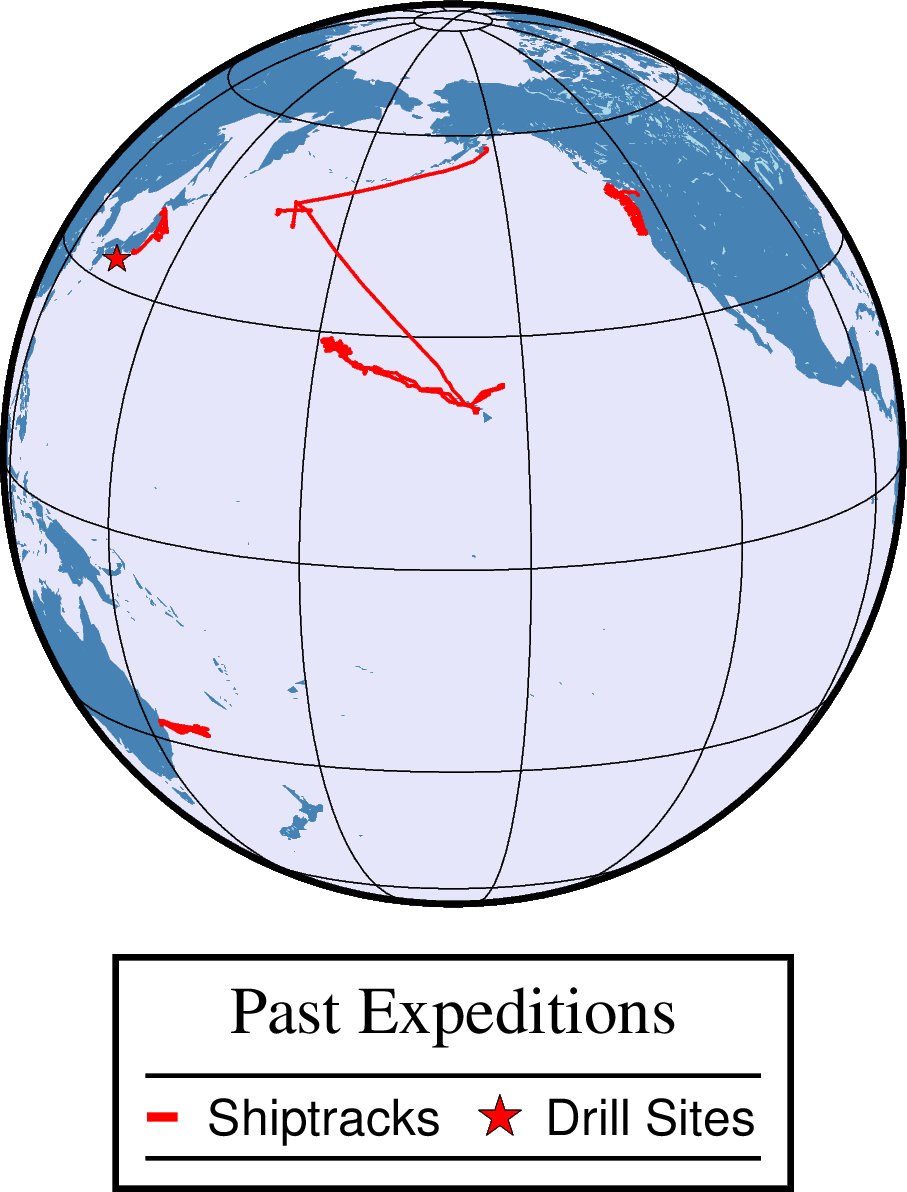
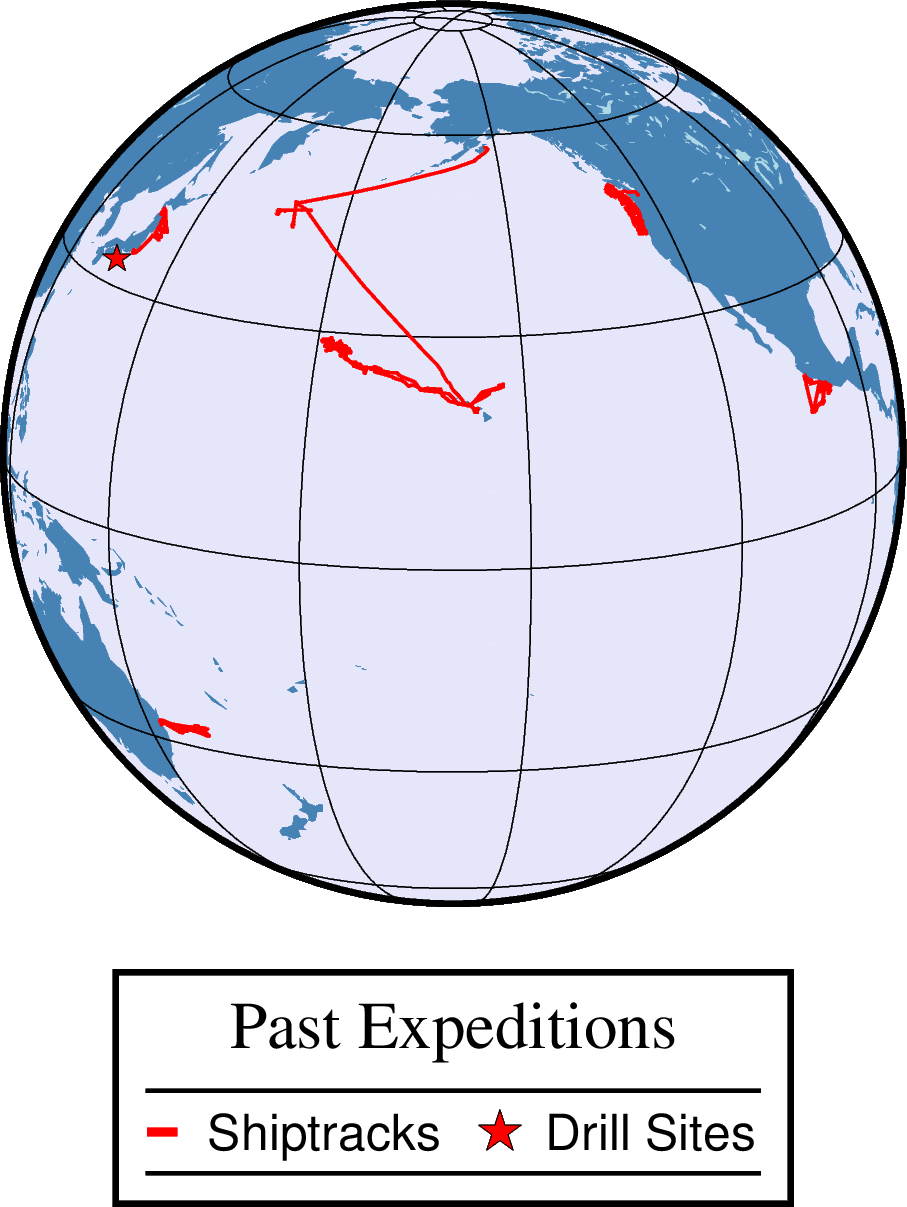
update

diff --git a/research.md b/research.md
@@ -13,9 +13,9 @@ I use marine geophysics to study how the Earth's tectonic plates form, bend, bre
 
 Starting at the Big Island of Hawaii and extending to the Aleutian Trench, the Hawaiian-Emperor Seamount Chain is a classic example of a hotspot seamount chain. Check out our [blog](https://hawaiiemperor.blogspot.com "blog") for information on a recent seismic cruise series using R/V _Marcus G. Langseth_ and click below for some initial publications.
 
-* Watts, A. B., Grevemeyer, I., Shillington, D. J., Dunn, R., **Boston, B.**, Peña, L. G., 2021. Seismic structure, Gravity anomalies and Flexure along the Emperor Seamount chain. [link](http://dx.doi.org/10.1029/2020JB021109 "link")
-
-* Watts, A. B., Tozer, B., Harper, H., **Boston, B.**, Shillington, D.J., Dunn, R., 2020. Evaluation of shipboard and satellite-derived bathymetry and gravity data over seamounts in the northwest Pacific Ocean. [link](http://dx.doi.org/10.1029/2020JB020396 "link")
+* Xu, C., et al., (2022). A seismic tomography, gravity, and flexure study of the crust and upper mantle structure of the Emperor Seamounts at Jimmu guyot. [link](https://doi.org/10.1029/2021JB023241 "link")
+* Watts, A. B., Grevemeyer, I., Shillington, D. J., Dunn, R., **Boston, B.**, Peña, L. G., (2021). Seismic structure, Gravity anomalies and Flexure along the Emperor Seamount chain. [link](http://dx.doi.org/10.1029/2020JB021109 "link")
+* Watts, A. B., Tozer, B., Harper, H., **Boston, B.**, Shillington, D.J., Dunn, R., (2020). Evaluation of shipboard and satellite-derived bathymetry and gravity data over seamounts in the northwest Pacific Ocean. [link](http://dx.doi.org/10.1029/2020JB020396 "link")
 
 A previous sonar cruise on the Hawaiian Ridge up to just NW of Kure and Midway Atolls mapped 19 seamounts and discovered deep guyots, likely old preexisting Cretaceous seamounts, intertwined with ones from the Hawaiian Chain.
 
@@ -28,6 +28,12 @@ These regions where plates collide produce some of the largest earthquakes, crea
 
 ##### Cascadia
 Located in the backyard of the Pacific Northwest, the Cascadia subduction zone is one of the greatest geologic hazards for the US, with earthquakes reaching up to Mw 9.0. During the Cascadia Seismic Imaging Experiement 2021 (CASIE21), we imaged along the whole margin to better understand the earthquake and tsunami hazards throughout this region. Check out our our [website](https://casie21.weebly.com "website") or [blog](https://news.climate.columbia.edu/features/illuminating-the-cascadia-subduction-zone/ "blog") to learn more about how and why we collected the data, or see what others are saying about the [research cruise](https://www.sciencemag.org/news/2021/06/megaquake-will-someday-strike-pacific-northwest-ship-could-figure-out-how-bad-it-will "research cruise"). Stay tuned for research coming out!
+
+##### Middle America Trench
+At the Middle America Trench, the Cocos oceanic plate slides underneath the North American plate, regularly producing large and devastating earthquakes. The Guerrero seismic gap is one of the few areas along this subduction zone that has not experienced any large earthquakes in the last 100 years. In 2022, we collected a large suite of geophysical measurements including seismic reflection and wide-angle seismic relfection/refraction data. To learn more check out our [blog](https://news.climate.columbia.edu/features/scrutinizing-the-habitat-of-slow-earthquakes-in-the-guerrero-gap/ "blog") and look out for future results.
+
+Some past research in this region includes:
+* Edwards, J. H., et al., (2021). In-situ mass balance estimates offshore Costa Rica. [link](https://doi.org/10.1029/2020GC009190"link")
 
 ##### Japan Trench
 The great 2011 Mw 9.0 Tohoku-oki earthquake at the Japan Trench produced huge co-seismic slip and created the tsunami that devastated much of northeast Japan. I sailed on a rapid-response cruise led by JAMSTEC soon after the earthquake to collect seismic data along this margin.

diff --git a/index.md b/index.md
@@ -6,7 +6,7 @@ feature_image: "https://brianboston.github.io/images/P1011678.jpg"
 feature_text: |
   # <font color="#F5FFFA">Brian Boston</font>
 ---
-{% include figure.html image="https://brianboston.github.io/images/IMG_20190418_233131_crop.jpeg" position="right" width="400" height="800" %}
+{% include figure.html image="https://brianboston.github.io/images/IMG_4722.jpg" position="right" width="400" height="800" %}
 
 My research is focused on using geophysical methods to study tectonics, volcanism, basin systems, and geologic hazards. I utilize active-source seismology along with other geophysical and geological data to investigate deformation at subduction zones and continental rifted margins.
 
